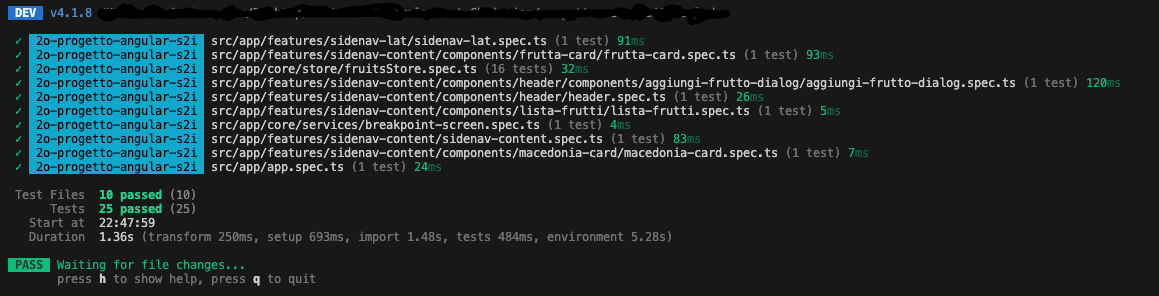
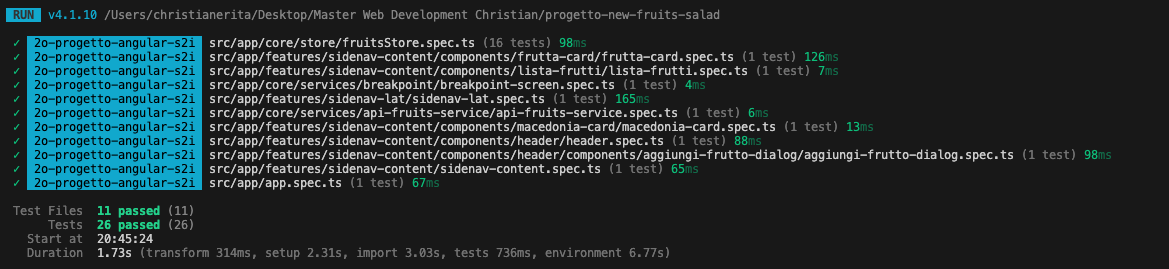
Sistemazione ReadMe

Changed region(s): [[0.0, 0.0, 0.9629, 0.9814]]

diff --git a/src/app/core/store/fruitsStore.ts b/src/app/core/store/fruitsStore.ts
@@ -1,10 +1,8 @@
-import { HttpClient, httpResource } from '@angular/common/http';
-import { patchState, signalMethod, signalStore, withComputed, withMethods, withState } from '@ngrx/signals'
+import { patchState, signalStore, withComputed, withMethods, withState } from '@ngrx/signals'
 import { Frutto} from '../models/frutto';
-import { computed, effect, inject, resource } from '@angular/core';
+import { computed, effect, inject} from '@angular/core';
 import { HotToastService } from '@ngxpert/hot-toast';
 import { ApiFruitsService } from '../services/api-fruits-service/api-fruits-service';
-import { FruttaCard } from '../../features/sidenav-content/components/frutta-card/frutta-card';
 
 
 // Api per richiesta HTTP - Api cambiata per configurazione Proxy per politica Browser CORS

diff --git a/README.md b/README.md
@@ -105,13 +105,13 @@ L'applicazione permette agli utenti di:
 
 | Libreria | Versione | Utilizzo nell'App |
 |------------|-----------|------------|
-| **Vitest** | 4.0.8 | Test runner e framework con sintassi compatibile Jest, usato per scrivere ed eseguire tutti i test dell'applicazione |
+| **Vitest** | 4.1.10 | Test runner e framework con sintassi compatibile Jest, usato per scrivere ed eseguire tutti i test dell'applicazione |
 
 ### 6. Build e Development
 
 | Libreria | Versione | Utilizzo nell'App |
 |------------|-----------|------------|
-| **@angular/cli** | 21.2.2 | CLI per lo sviluppo |
+| **@angular/cli** | 21.2.0 | CLI per lo sviluppo |
 | **@angular/build** | 21.2.2 | Sistema di Build |
 
 ---
@@ -163,12 +163,15 @@ npm run test:watch
 # Oppure
 ng test
 ng test --include #url singolo file da testare
+
+# Test secco senza watch mode
+ng test --watch=false
 ```
 
 ### Copertura attuale
 
-- **10 file di test**
-- **25 test totali**
+- **11 file di test**
+- **26 test totali**
 - Componenti, servizi, store
 - Tutte le funzionalità principali sono testate
 
@@ -181,13 +184,32 @@ Vitest è compatibile con Jest, ma molto più veloce grazie all'integrazione con
 ## 📂 Struttura Progetto
 
 ```
+├── .angular
+├── public
+│   ├── screenshot
+│   │   ├── card-frutta.png
+│   │   ├── dashboard.png
+│   │   ├── dialog-nuovo-frutto.png
+│   │   ├── filtri-select.png
+│   │   ├── macedonia-con-frutti.png
+│   │   ├── mod-mobile-dashboard.png
+│   │   └── testing.png
+│   ├── favicon.ico
+│   ├── gruppo-di-frutta.png
+│   ├── icons8-carboidrati-96.png
+│   ├── icons8-carne-96.png
+│   ├── icons8-cibo-per-suini-96.png
+│   ├── icons8-energia-calorica-96.png
+│   └── icons8-zucchero-96.png
 ├── src
 │   ├── app
 │   │   ├── core
 │   │   │   ├── models
 │   │   │   │   └── frutto.ts
 │   │   │   ├── services
-│   │   │   │   └── breakpoint-screen.ts
+│   │   │   │   ├── api-fruits-service
+│   │   │   │   └── breakpoint
+│   │   │   │       ├── breakpoint-screen.spec.ts
 │   │   │   └── store
 │   │   │       └── fruitsStore.ts
 │   │   ├── features
@@ -196,7 +218,7 @@ Vitest è compatibile con Jest, ma molto più veloce grazie all'integrazione con
 │   │   │   │      ├── frutta-card
 │   │   │   │      ├── header
 │   │   │   │      │   ├── components
-│   │   │   │      │   │   └── aggiungi-frutto-dialog
+│   │   │   │      │         └── aggiungi-frutto-dialog
 │   │   │   │      ├── lista-frutti
 │   │   │   │      └── macedonia-card
 │   │   │   └── sidenav-lat
@@ -210,6 +232,10 @@ Vitest è compatibile con Jest, ma molto più veloce grazie all'integrazione con
 │   ├── main.ts
 │   ├── material-theme.scss
 │   └── styles.css
+├── .editorconfig
+├── .gitignore
+├── .postcssrc.json
+├── .prettierrc
 ├── README.md
 ├── angular.json
 ├── package-lock.json